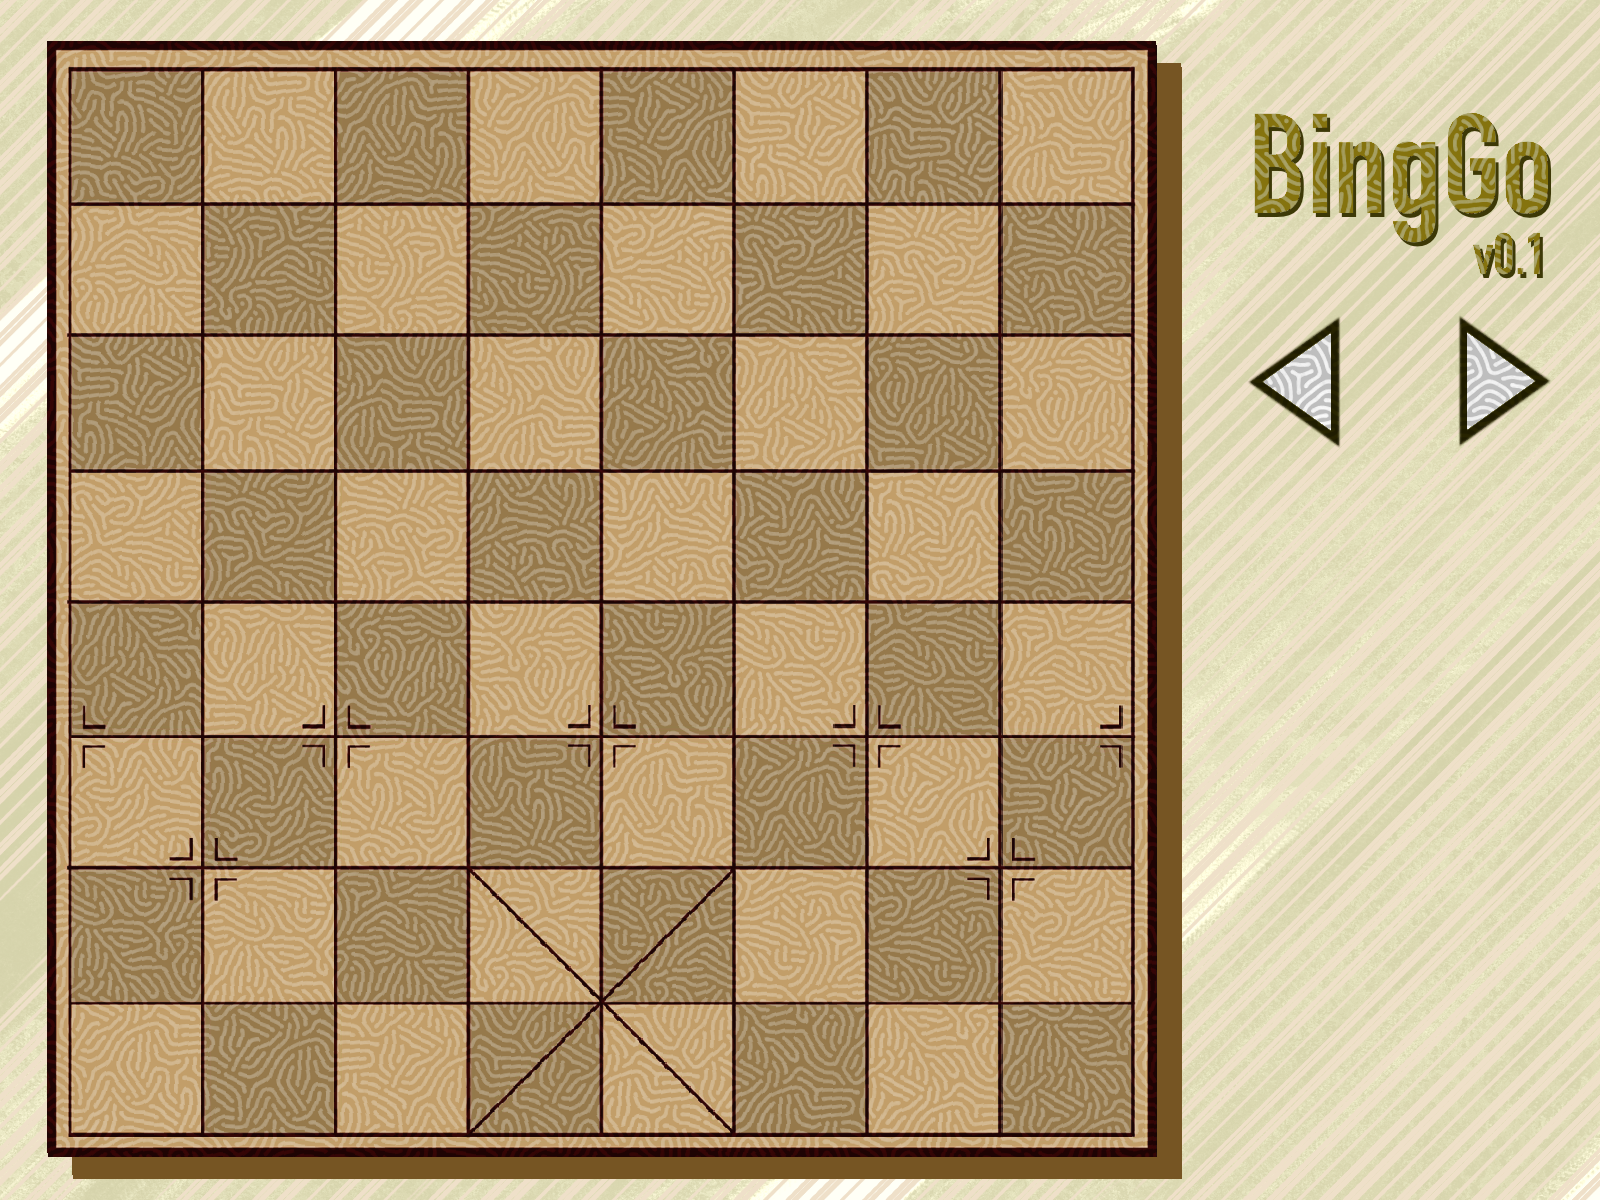
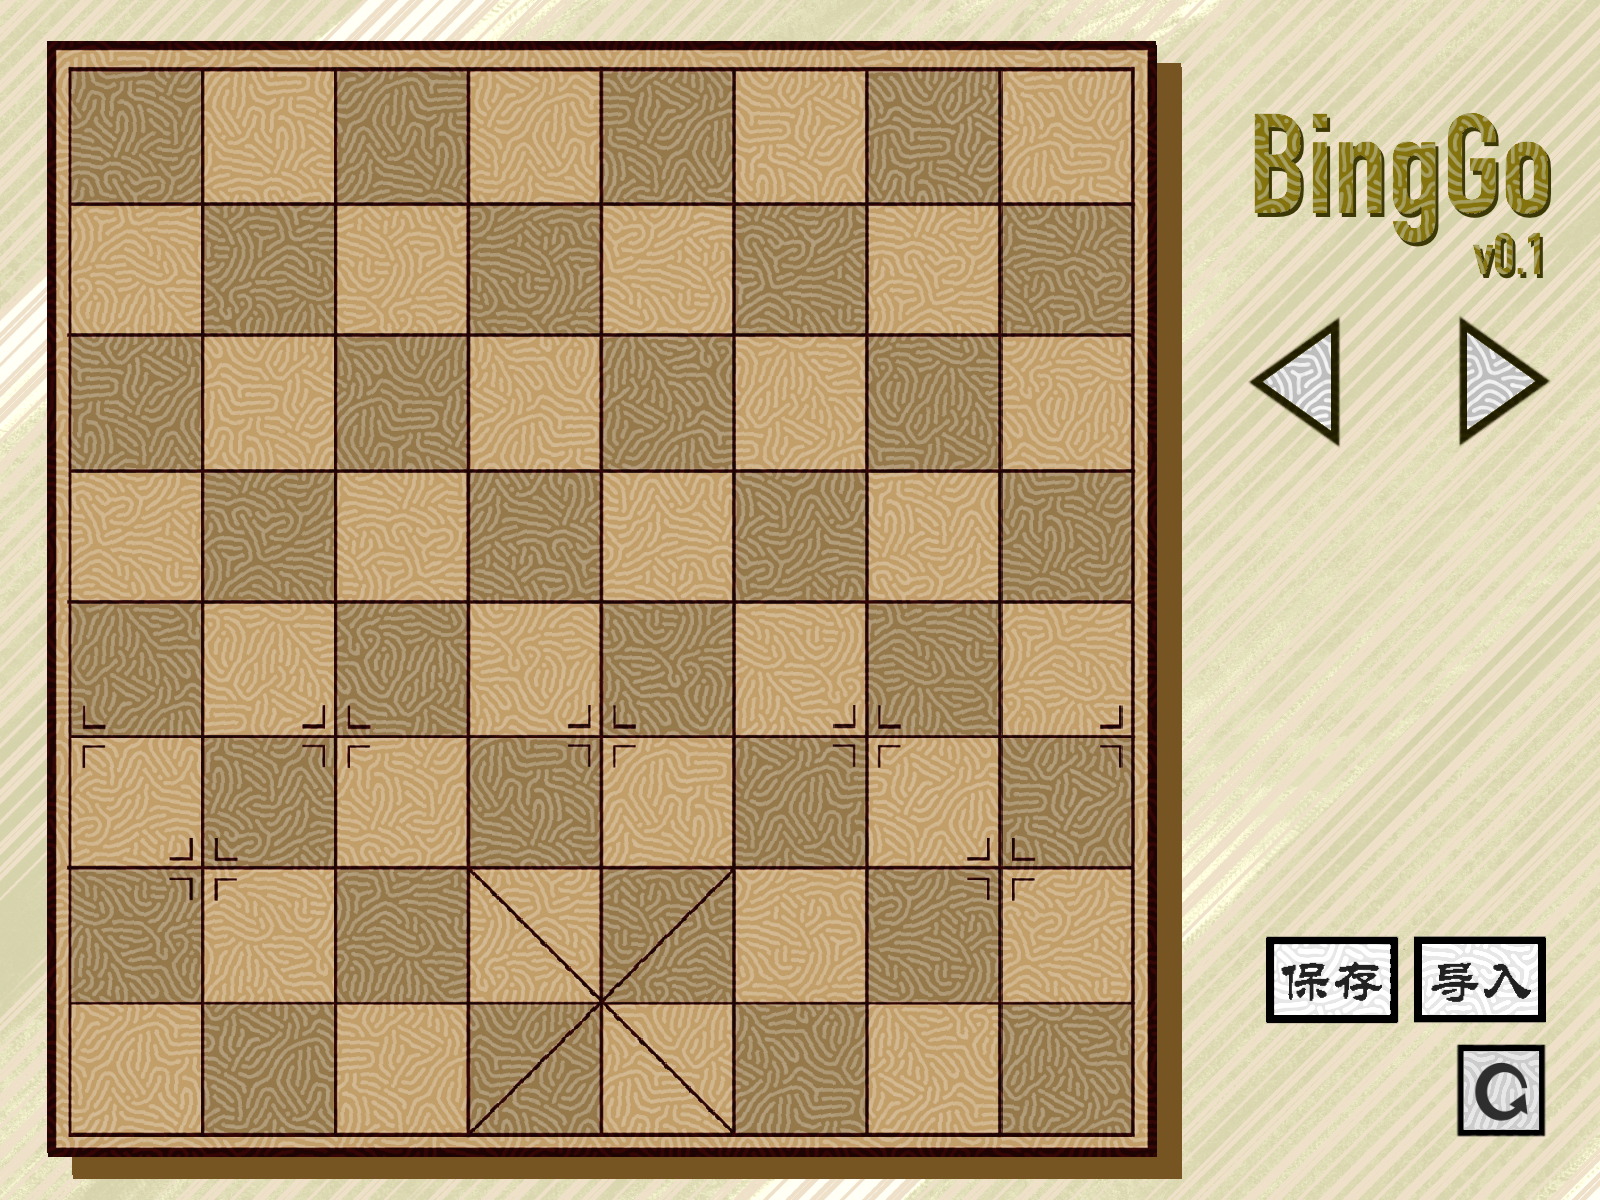
gengxin

Changed region(s): [[0.7812, 0.7708, 0.9688, 0.9558]]

diff --git a/display.py b/display.py
@@ -45,15 +45,6 @@ class War(FloatLayout):
         self.regret_pointer = 0
         self.imgs = []
 
-        # bgm设置
-        # self.sound = SoundLoader.load('./music/main.wav')
-        # if self.sound:
-        #     self.sound.volume = 1.0
-        #     self.sound.loop = True
-        #     self.sound.play()
-        # else:
-        #     print("!声音播放出错", self.sound)
-
         # 窗口及背景图设置
         Window.size = (800, 600)
         image = Image(source='./img/beach.png', size=("800dp", "600dp"), size_hint=(None, None),
@@ -400,10 +391,26 @@ class War(FloatLayout):
                     pass
                 elif 1476 < x < 1536:
                     self.gret()
+            elif 1458<x<1542 and 70<y<152:
+                self.__init__()
+            elif 174<y<262:
+                if 1266<x<1440:
+                    print("save")
+                elif 1418<x<1548:
+                    print("load")
+
 
 
 class BingGo(App):
     def build(self):
+        # bgm设置
+        # self.sound = SoundLoader.load('./music/main.wav')
+        # if self.sound:
+        #     self.sound.volume = 1.0
+        #     self.sound.loop = True
+        #     self.sound.play()
+        # else:
+        #     print("!声音播放出错", self.sound)
         return War()
 
 
